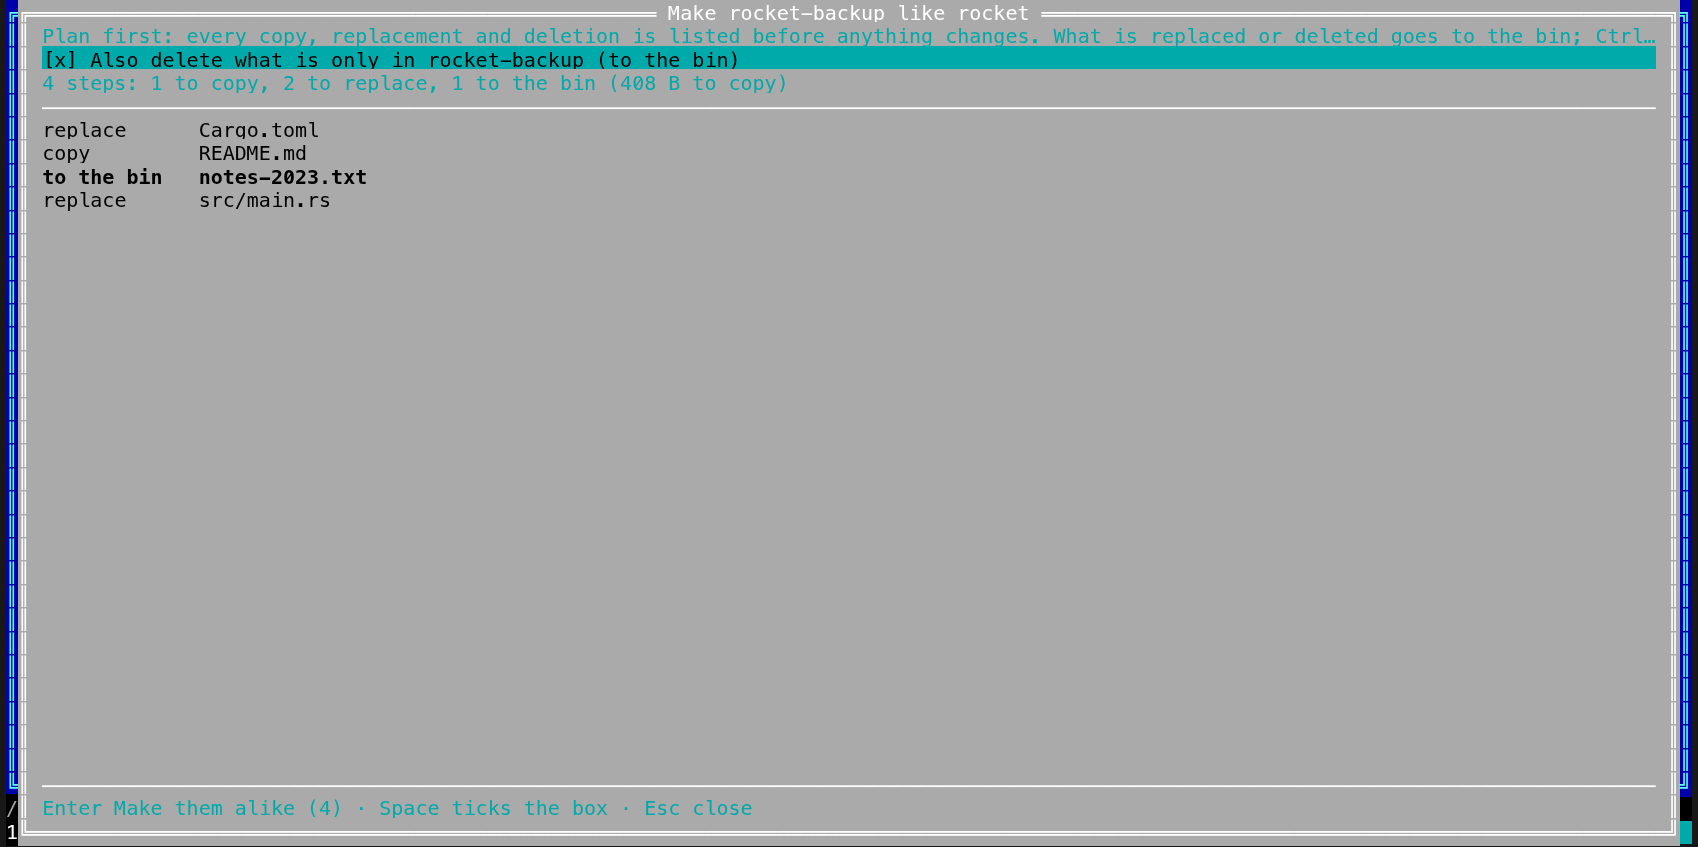
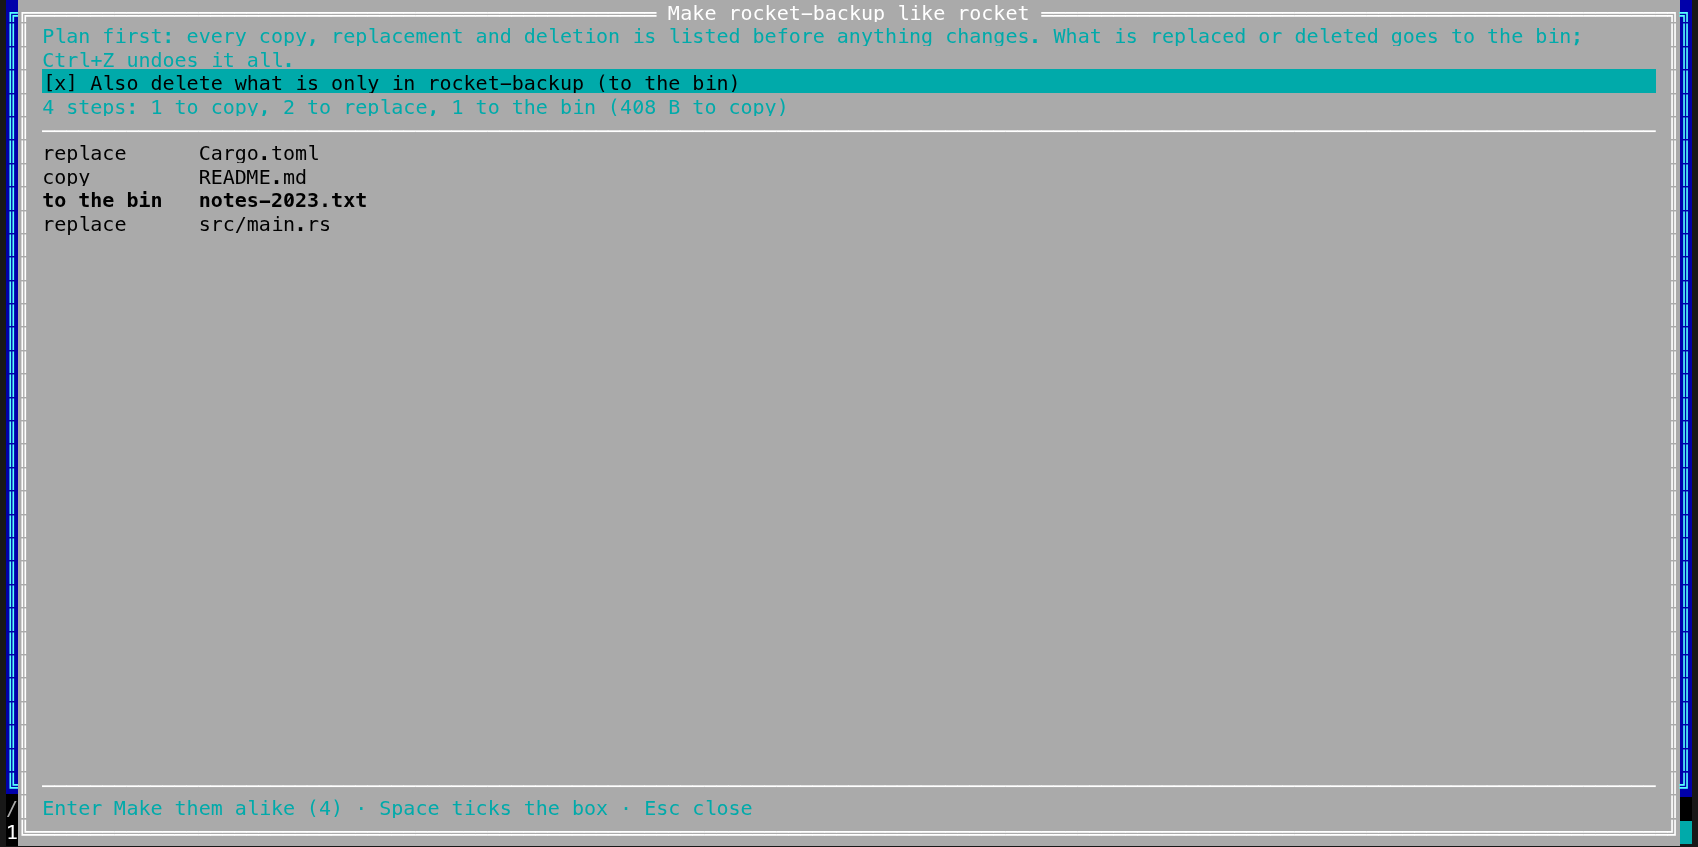
Terminal app: the explanation in Make one side like the other is wrapped over as many lines as it needs, not cut at the window's edge

Changed region(s): [[0.0, 0.0307, 0.9988, 0.2763]]

diff --git a/crates/coxswain/src/sync.rs b/crates/coxswain/src/sync.rs
@@ -17,7 +17,7 @@ use std::sync::atomic::{AtomicBool, Ordering};
 use std::sync::{Arc, mpsc};
 
 use crate::bom::faint;
-use crate::ui::{fit, sty};
+use crate::ui::{fit, sty, wrap};
 
 pub enum Outcome {
     Stay,
@@ -188,9 +188,11 @@ impl Viewer {
         let inner = block.inner(area).inner(Margin::new(1, 0));
         f.render_widget(block, area);
         let w = inner.width as usize;
+        // The explanation is longer than a terminal is wide in every language: wrapped.
+        let about = wrap(&t!("sync.about", "undo" => self.undo_key), w);
         let [about_a, box_a, state_a, rule1, body, rule2, foot] =
-            Layout::vertical([Constraint::Length(1), Constraint::Length(1), Constraint::Length(1), Constraint::Length(1), Constraint::Min(1), Constraint::Length(1), Constraint::Length(1)]).areas(inner);
-        f.render_widget(Paragraph::new(fit(&t!("sync.about", "undo" => self.undo_key), w)).style(dim), about_a);
+            Layout::vertical([Constraint::Length(about.len() as u16), Constraint::Length(1), Constraint::Length(1), Constraint::Length(1), Constraint::Min(1), Constraint::Length(1), Constraint::Length(1)]).areas(inner);
+        f.render_widget(Paragraph::new(about.into_iter().map(Line::from).collect::<Vec<_>>()).style(dim), about_a);
         let tick = format!("[{}] {}", if self.delete { "x" } else { " " }, t!("sync.delete", "dir" => name(&self.to)));
         f.render_widget(Paragraph::new(fit(&tick, w)).style(sty(&theme.dialog_input)), box_a);
         let err = self.said.is_some() && self.plan.is_none();
@@ -265,6 +267,8 @@ mod tests {
         term.draw(|f| v.draw(f, &Theme::default())).unwrap();
         let screen: String = term.backend().buffer().content.iter().map(|c| c.symbol()).collect();
         assert!(screen.contains("new.txt") && !screen.contains("extra.txt"), "{screen}");
+        // The explanation, longer than the screen is wide, is wrapped, not cut: its last words show.
+        assert!(screen.contains("undoes it all."), "{screen}");
         v.key(key(KeyCode::Enter), None);
         let done = wait(&mut v).expect("made alike").unwrap();
         assert_eq!(done.copied, 1);

diff --git a/crates/coxswain/src/ui.rs b/crates/coxswain/src/ui.rs
@@ -1054,7 +1054,7 @@ pub(crate) fn dstyle(t: &config::Theme) -> Style {
 
 /// `s` in lines of at most `width` columns, broken at spaces, or anywhere in a word that does
 /// not fit (Japanese has no spaces).
-fn wrap(s: &str, width: usize) -> Vec<String> {
+pub(crate) fn wrap(s: &str, width: usize) -> Vec<String> {
     let width = width.max(8);
     let (mut out, mut line, mut w) = (vec![], String::new(), 0);
     for word in s.split_inclusive(' ') {

diff --git a/docs/files/compare-folders.md b/docs/files/compare-folders.md
@@ -178,7 +178,7 @@ The same marks in the column before the name, in the theme's git colours, and th
 screen: the tick box, the summary, the steps, and the keys at the bottom (**Enter**, **Space**,
 **Esc**, **↑** **↓** to scroll).
 
-![The terminal app in Classic blue with the full-screen Make rocket-backup like rocket: [x] Also delete what is only in rocket-backup (to the bin), the summary line, then replace Cargo.toml, copy README.md, to the bin notes-2023.txt in bold and replace src/main.rs, and the keys Enter Make them alike (4) · Space ticks the box · Esc close at the bottom](../screenshots/compare-sync-tui.png)
+![The terminal app in Classic blue with the full-screen Make rocket-backup like rocket: the explanation over two lines, [x] Also delete what is only in rocket-backup (to the bin), the summary line, then replace Cargo.toml, copy README.md, to the bin notes-2023.txt in bold and replace src/main.rs, and the keys Enter Make them alike (4) · Space ticks the box · Esc close at the bottom](../screenshots/compare-sync-tui.png)
 *The same plan in the terminal app: deletions and older-over-newer steps in bold.*
 
 ## Questions

diff --git a/changelog.d/sync-line-wrap.md b/changelog.d/sync-line-wrap.md
@@ -1,0 +1,1 @@
+| **The terminal app shows the whole explanation when making one folder like the other.** It is wrapped over as many lines as it needs instead of being cut at the window's edge. | [Compare folders](files/compare-folders.md#making-one-side-like-the-other) |
